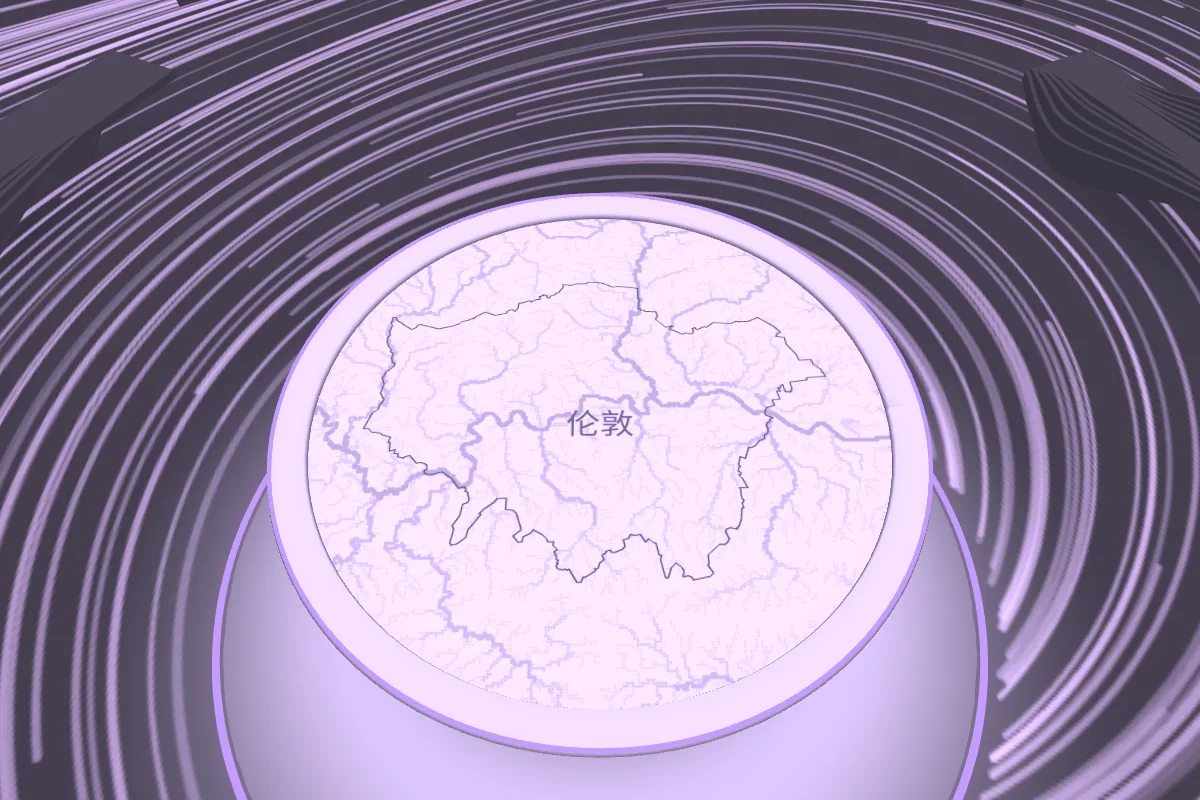
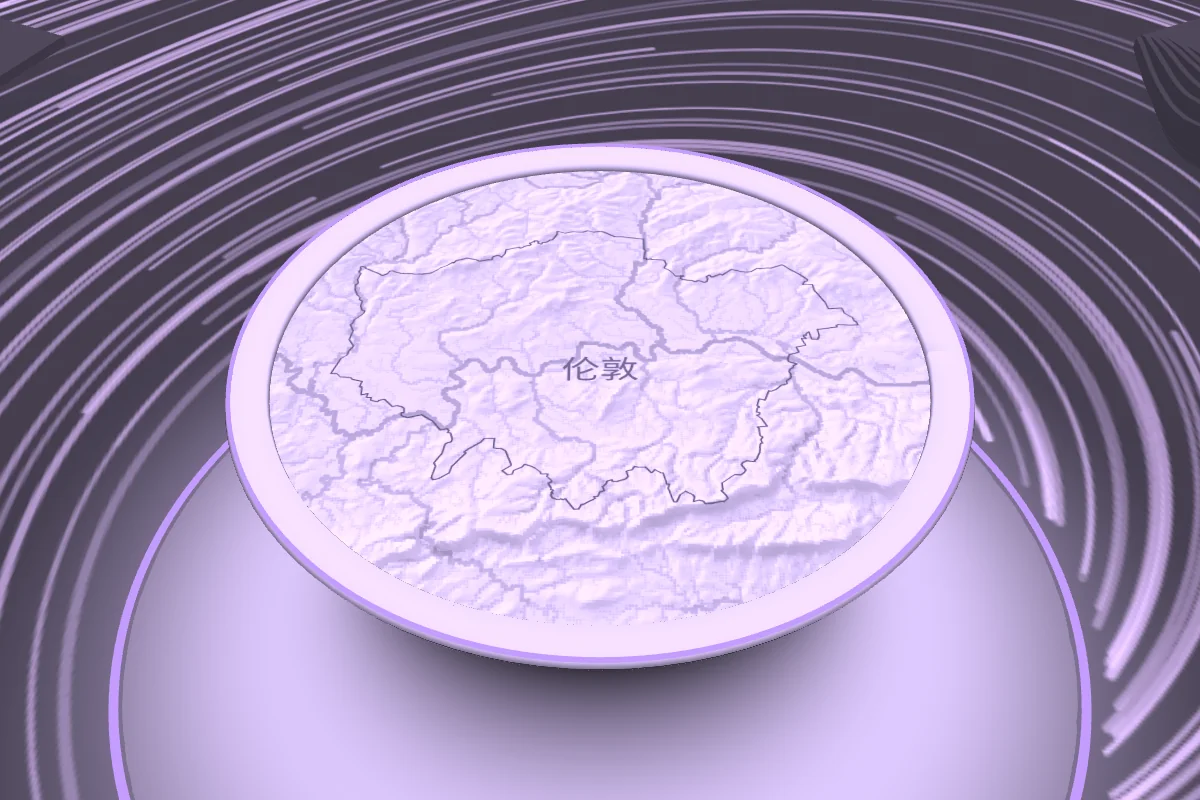
catalogue: the VR covers — the London disc in the middle, in relief
Seen from about 43° and centred, the table's London now has relief: the
terrain heights of the Hydro Lab scene raise the disc, with a soft hillshade
in the map (Chinese and English covers). hall.js takes opt.capRelief for such
a still (unused by the app).

Claude-Session: https://claude.ai/code/session_01PLqW2Wv64EXShMtJ9cMZhs

diff --git a/incubator/vr/src/hall.js b/incubator/vr/src/hall.js
@@ -224,7 +224,12 @@ export function createHall(gl, opt = {}){
   // the table: body, a dark cap under the disc, a light ring on the rim and on the floor
   add(lathe(pts, 96, WHITE), {});
   // the cap under the map: dark, or opt.capImage (an image or canvas, north up, the disc's full width) — e.g. a still of the place
-  if (opt.capImage){ const cap = disc(mapR + 0.02, tableH - 0.002, 96, [1, 1, 1]), r = mapR + 0.02;
+  // opt.capRelief(x, z) → metres: the cap becomes a relief (a still for a cover; the app's own map lies on top of the cap)
+  if (opt.capImage && opt.capRelief){ const r = mapR + 0.02;
+    const cap = surface((u, j) => { const t = u * Math.PI * 2, x = r * j * Math.cos(t), z = r * j * Math.sin(t); return [x, tableH - 0.002 + opt.capRelief(x, z) * (1 - ss(0.86, 1, j)), z]; }, 192, 72, [1, 1, 1]);
+    for (let o = 0; o < cap.v.length; o += F){ cap.v[o + 6] = 0.5 + cap.v[o] / (2 * r); cap.v[o + 7] = 0.5 - cap.v[o + 2] / (2 * r); }
+    add(cap, { map: tex(opt.capImage) }); }
+  else if (opt.capImage){ const cap = disc(mapR + 0.02, tableH - 0.002, 96, [1, 1, 1]), r = mapR + 0.02;
     for (let o = 0; o < cap.v.length; o += F){ cap.v[o + 6] = 0.5 + cap.v[o] / (2 * r); cap.v[o + 7] = 0.5 - cap.v[o + 2] / (2 * r); }   // north (−z) at the top
     add(cap, { map: tex(opt.capImage) }); }
   else add(disc(mapR + 0.02, tableH - 0.002, 64, [0.16, 0.17, 0.19]), {});

diff --git a/incubator/vr/src/xr_view.js b/incubator/vr/src/xr_view.js
@@ -15,7 +15,7 @@
 
 import { defaultEnv } from './app_state.js?v=0.20';
 import { writeCars } from './features.js?v=0.20';
-import { createHall } from './hall.js?v=0.32';
+import { createHall } from './hall.js?v=0.33';
 
 const T = {
   zh: { title: '三维 · VR / MR', enterAR: '进入 MR', enterVR: '进入 VR', noXR: '这台设备的浏览器不支持 WebXR。请在 Meta Quest 浏览器中打开本页。', close: '关闭', flood: '洪水风险', drain: '汇水网络', outline: '边界', buildings: '建筑', existing: '现有街道', exag: '高程放大', walk: '1:1 漫游',

diff --git a/incubator/vr/map.html b/incubator/vr/map.html
@@ -29,8 +29,8 @@
 <div id="err"></div>
 <script type="module">
 import { findMap } from './src/map_bridge.js?v=0.20';
-import { openFromMap } from './src/from_map.js?v=0.32';
-import { open } from './src/xr_view.js?v=0.32';
+import { openFromMap } from './src/from_map.js?v=0.33';
+import { open } from './src/xr_view.js?v=0.33';
 import { streamApi } from './src/stream.js?v=0.20';
 import { mapPainter } from './src/map_painter.js?v=0.20';
 import { appPanel } from './src/app_panel.js?v=0.24';

diff --git a/incubator/vr/index.html b/incubator/vr/index.html
@@ -12,7 +12,7 @@
 <div id="msg">载入场景… · Loading the scene…</div>
 <div id="drop">松开以载入场景文件 · Drop a scene file</div>
 <script type="module">
-import { open } from './src/xr_view.js?v=0.32';
+import { open } from './src/xr_view.js?v=0.33';
 import { apiFromScene } from './src/scene.js';
 import { streamApi } from './src/stream.js?v=0.20';
 import { envFromList } from './src/app_state.js?v=0.20';

diff --git a/incubator/vr/src/from_map.js b/incubator/vr/src/from_map.js
@@ -5,7 +5,7 @@
 //   3. the camera goes back exactly as it was, and the VR view opens over the map
 // Closing the view (or leaving the headset) returns to the map as it was. Call: openFromMap(map, 'zh' | 'en').
 
-import { open } from './xr_view.js?v=0.32';
+import { open } from './xr_view.js?v=0.33';
 import { buildingMesh, osmBuildingsIn } from './osm.js?v=0.20';
 
 const R = 6378137, MAX_TEX = 4096, MIN_ZOOM = 15;
